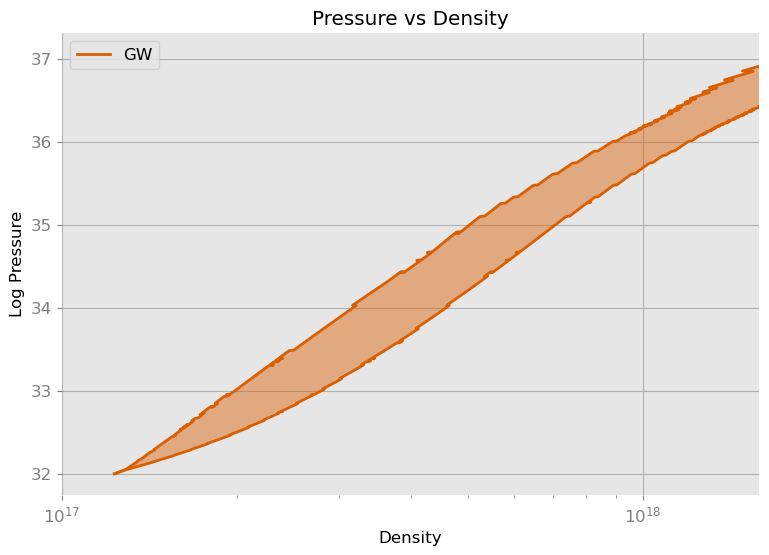
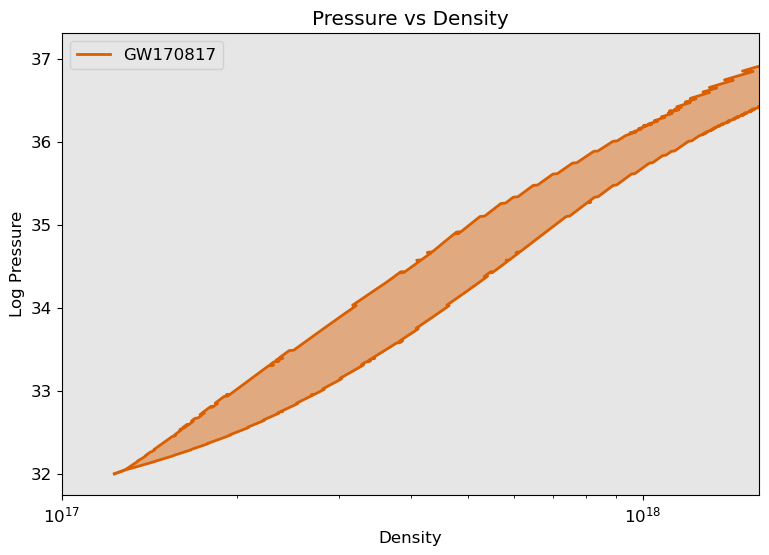
Plots of plots resembling Anarya's. Sixth attempt.

diff --git a/joint_inference/development/confidence_interval.py b/joint_inference/development/confidence_interval.py
@@ -14,13 +14,13 @@ def plot_intervals(outputfile):
 #    labels = ["GW", "EM + GW"]
 #    colors = ["#f1a340", "#998ec3"]
 
-#    Files = ["run_data/spectral_p_vs_rho_cutoff_W100_S10000_GW170817_confidence.txt"]
-#    labels = ["GW170817"]
-#    colors = ["#d95f02"]
+    Files = ["run_data/spectral_p_vs_rho_cutoff_W100_S10000_GW170817_confidence.txt"]
+    labels = ["GW170817"]
+    colors = ["#d95f02"]
 
-    Files = ["run_data/spectral_p_vs_rho_cutoff_W100_S10000_J0740_confidence.txt"]
-    labels = ["J0740"]
-    colors = ["#7570b3"]
+#    Files = ["run_data/spectral_p_vs_rho_cutoff_W100_S10000_J0740_confidence.txt"]
+#    labels = ["J0740"]
+#    colors = ["#7570b3"]
 
 #    Files = ["run_data/spectral_p_vs_rho_cutoff_W100_S10000_GW170817_J0740_hierarchical_confidence.txt"]
 #    labels = ["GW+EM"]
